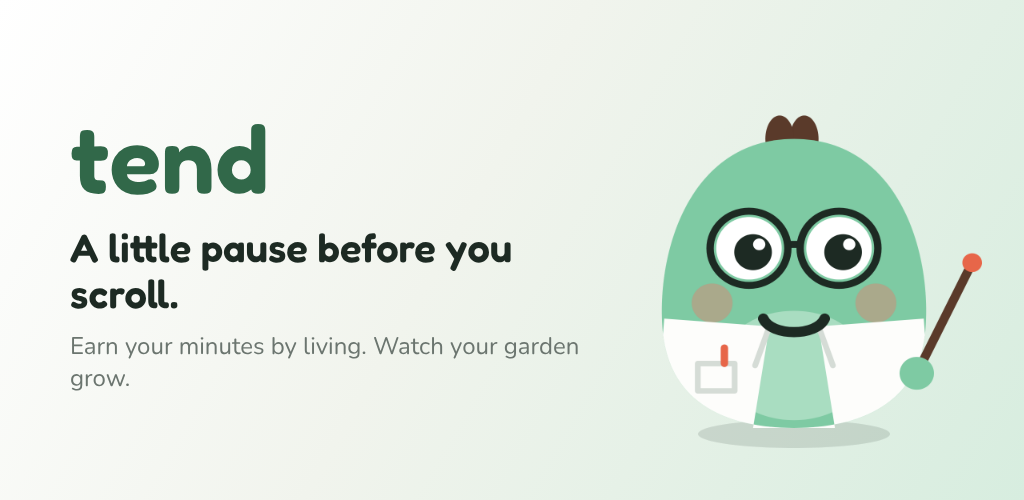
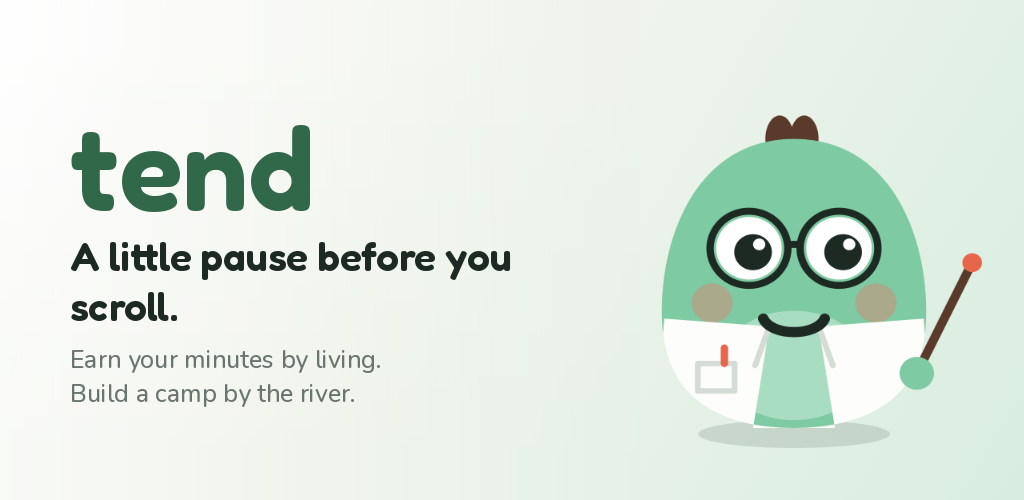
Hungarian polish: ő and ű in the headline font, texts that fit, a Hungarian store listing
- The headline font had no ő or ű (they fell back to another typeface):
  both are added, built from the font's own o, u and double acute.
- Hungarian texts that ran long are shorter: the pause's main button, a
  chip, the tips on the camp.
- Store: a Hungarian listing with its own screenshots and feature graphic;
  the English feature graphic no longer speaks of a garden.

Claude-Session: https://claude.ai/code/session_01MTi4pGbYj2mqQd4T7JQAzY

Changed region(s): [[0.0625, 0.45, 0.5625, 0.81], [0.0625, 0.24, 0.3125, 0.42]]

diff --git a/app/src/main/java/app/tend/monitor/InterstitialActivity.kt b/app/src/main/java/app/tend/monitor/InterstitialActivity.kt
@@ -428,7 +428,7 @@ class InterstitialActivity : ComponentActivity() {
         }
         app.tend.data.Friends.atFire(this).firstOrNull()?.let { f -> return tr("Join ${f.name} at the fire", "Ülj le a tűzhöz: ${f.name} már ott van") to { open(app.tend.data.Friends.OPEN_JOIN) } }
         val next = Tasks.next(store.today(), store.selectedTasks) ?: return null
-        return tr("${next.title} with ${store.avatar.displayName} · +${next.rewardMinutes} min", "${next.title} · ${store.avatar.displayName} veled tart · +${next.rewardMinutes} perc") to { open(app.tend.reminder.RecapReminder.OPEN_ACTIVITIES) }
+        return tr("${next.title} with ${store.avatar.displayName} · +${next.rewardMinutes} min", "${next.title} · +${next.rewardMinutes} perc") to { open(app.tend.reminder.RecapReminder.OPEN_ACTIVITIES) }
     }
 
     /** "Not now", and what it earns while today's acorns for it last. */
@@ -458,7 +458,7 @@ class InterstitialActivity : ComponentActivity() {
             tr("Reply", "Üzenet") to "Messages",
             tr("Look up", "Keresek") to "Looking something up",
             tr("Bored", "Unalom") to "Just bored",
-            tr("Habit", "Megszokás") to "Out of habit",
+            tr("Habit", "Szokás") to "Out of habit",
         )
 
         fun intent(context: Context, pkg: String, timeUp: Boolean = false, focus: Boolean = false) = Intent(context, InterstitialActivity::class.java)

diff --git a/app/src/main/java/app/tend/ui/Onboarding.kt b/app/src/main/java/app/tend/ui/Onboarding.kt
@@ -248,7 +248,7 @@ fun Onboarding(
                             when {
                                 !lit -> tr("This is where ${avatar.displayName} will live. It's empty for now: start with a campfire.", "Itt fog élni ${avatar.displayName}. Egyelőre üres: kezdd egy tábortűzzel.")
                                 !roasting -> tr("Lovely. Now tap the fire.", "Szép. Most koppints a tűzre.")
-                                else -> tr("${avatar.displayName} uses everything you get, even when you're away. Activities and \"Not now\" earn acorns for more; hold a thing to move it anywhere.", "${avatar.displayName} mindent használ, amit szerzel, akkor is, ha nem vagy itt. A tevékenységek és a „Most nem” makkot hoznak újabb dolgokra; ha nyomva tartasz egy tárgyat, bárhová áttehetted.")
+                                else -> tr("${avatar.displayName} uses everything you get, even when you're away. Activities and \"Not now\" earn acorns for more; hold a thing to move it anywhere.", "${avatar.displayName} mindent használ, amit szerzel, akkor is, ha nem vagy itt. A tevékenységek és a „Most nem” makkot hoznak újabb dolgokra; ha nyomva tartasz egy tárgyat, bárhová átteheted.")
                             },
                         )
                         val appear = rememberAppear(placed)

diff --git a/app/src/main/java/app/tend/ui/ClearingScreen.kt b/app/src/main/java/app/tend/ui/ClearingScreen.kt
@@ -558,7 +558,7 @@ fun ClearingScreen(
         AcornBadge(acorns, Modifier.align(Alignment.TopEnd).padding(12.dp))
         // Until something has been moved: how, right on the camp.
         if (hintSpot != null && drag == null && carries.isEmpty()) Text(
-            tr("Tip: hold a thing to move it", "Tipp: tarts nyomva egy tárgyat, és arrébb teheted"), style = MaterialTheme.typography.labelLarge.copy(fontSize = 12.sp), color = Brand.Moss,
+            tr("Tip: hold a thing to move it", "Tipp: tartsd nyomva, és húzd"), style = MaterialTheme.typography.labelLarge.copy(fontSize = 12.sp), color = Brand.Moss,
             modifier = Modifier.align(Alignment.TopCenter).padding(top = 18.dp)
                 .clip(RoundedCornerShape(50)).background(Color(0xE6FFFFFF)).padding(horizontal = 12.dp, vertical = 5.dp),
         )

diff --git a/app/src/main/java/app/tend/core/Tips.kt b/app/src/main/java/app/tend/core/Tips.kt
@@ -8,9 +8,9 @@ enum class Tip {
     MOVE, WIDGET, TOWN;
 
     fun text(name: String) = when (this) {
-        MOVE -> tr("Tip: hold a thing in the camp to move it", "Tipp: tarts nyomva egy tárgyat a táborban, és arrébb teheted")
-        WIDGET -> tr("Tip: put $name on your home screen", "Tipp: $name a kezdőképernyődre is kiülhet")
-        TOWN -> tr("Tip: add your town for its real weather", "Tipp: add meg a városod, és a táborban is olyan idő lesz")
+        MOVE -> tr("Tip: you can move things around", "Tipp: a tárgyakat átrendezheted")
+        WIDGET -> tr("Tip: put $name on your home screen", "Tipp: tedd ki a widgetet")
+        TOWN -> tr("Tip: add your town for real weather", "Tipp: állítsd be a városod")
     }
 
     companion object {

diff --git a/docs/play/store-listing-hu.md b/docs/play/store-listing-hu.md
@@ -1,0 +1,56 @@
+# tend a Google Playen: magyar áruházi szöveg
+
+A Play Console-ban: Store presence → Main store listing → Manage translations → Hungarian (hu-HU). Az űrlapok (Data safety stb.) egyszer kellenek, azok az angol `store-listing.md`-ben vannak.
+
+## App neve (max. 30)
+
+```
+tend: Szokások és képernyőidő
+```
+
+## Rövid leírás (max. 80)
+
+```
+Kedves társ a jó szokásokhoz: sétálj, aludj, olvass, és nyerd vissza az idődet.
+```
+
+## Teljes leírás (max. 4000)
+
+```
+Ismerd meg Bót, a kis társat, aki akkor érzi jól magát, ha te a valódi napodat éled.
+
+Sétálj egyet, aludd ki magad, olvass, tanulj, találkozz a barátaiddal, főzz, vagy vedd fel a saját szokásaidat. Minden, amit megcsinálsz, jókedvre deríti Bót, szintet lépsz vele, és képernyőidőt nyersz vissza. Kevesebb görgetés, erőlködés nélkül: a tend abból csinál örömöt, ami a telefonon kívül történik.
+
+GONDOZD BÓT AZZAL, HOGY MAGADRA FIGYELSZ
+• Napi célok, amiket te választasz: lépések, edzés, alvás, olvasás, tanulás, barátok, hobbi, rendrakás, főzés, vagy bármi saját
+• A séta, az edzés és az alvás magától beszámít a Health Connecttel (okosórával a legjobb)
+• Minden másra fókusz- és telefonmentes időzítő: amíg megy, minden app megvárja
+• Vagy csak egy időzítő: 25, 50 vagy 90 perc nyugalom, egy koppintással
+• Szintek a Testnek, az Elmének és a Pihenésnek: minden tevékenység XP
+• Heti kihívás a saját szokásaidból, bónusszal
+• Bo apró holmikat kap a jó szokásokért: szerencselevelet, szalmakalapot, hálósapkát
+
+TÁBOR A FOLYÓPARTON
+A sétákért, a könyvekért és minden „Most nem”-ért makk jár. Ebből építed a tábort a folyóparti tisztáson: tábortűz, függőágy, vászonsátor, kenu, fényfüzér a fák között. Minden nap jut valami apróság, és van mire gyűjteni is. A barátaid átjöhetnek, integethetnek, megtapsolhatnak, és odaülhettek egymás tábortüzéhez: együtt letenni a telefont könnyebb.
+
+KEDVES SZÜNET, NEM TILTÁS
+Amikor megnyitod a TikTokot, az Instagramot vagy bármelyik appot, amit kiválasztottál, Bo felbukkan egy lélegzetvételnyi szünetre. Gyakran ennyi is elég, hogy ne ragadj bele a görgetésbe. Mégis kell? Nézz be egy percre, vagy nyisd meg 5 vagy 15 percre; Bo szól, ha letelt. Nincs bűntudat, nincs szégyen.
+
+NYUGALOMRA TERVEZVE
+• Esti mód: álmos Bo és hosszabb szünet éjjel, a jobb alvásért
+• Időzített zár lefekvéshez vagy munkaidőre
+• Reggeli terv, esti összefoglaló, vasárnapi levél: naponta legfeljebb három üzenet
+• Widgetek a kezdőképernyőre, világos és sötét téma
+• Magyarul és angolul
+
+A TE ADATAID
+Nincs reklám, nincs követés, fiók sem kell. Csak akkor lépj be, ha mentést vagy barátokat szeretnél; az egészségadataid soha nem hagyják el a telefonod.
+
+Digitális detox, ami meg is marad: kevesebb képernyőidő, több az életedből, és egy kis barát, aki szurkol neked.
+```
+
+## Képek (`docs/play/hu/`)
+
+- Fejléckép 1024 × 500: `feature-graphic.png`
+- Telefonos képernyőfotók 1080 × 1920: `screenshot-1.png` … `screenshot-4.png` (a magyar appból)
+- Az ikon közös: `docs/play/icon-512.png`
